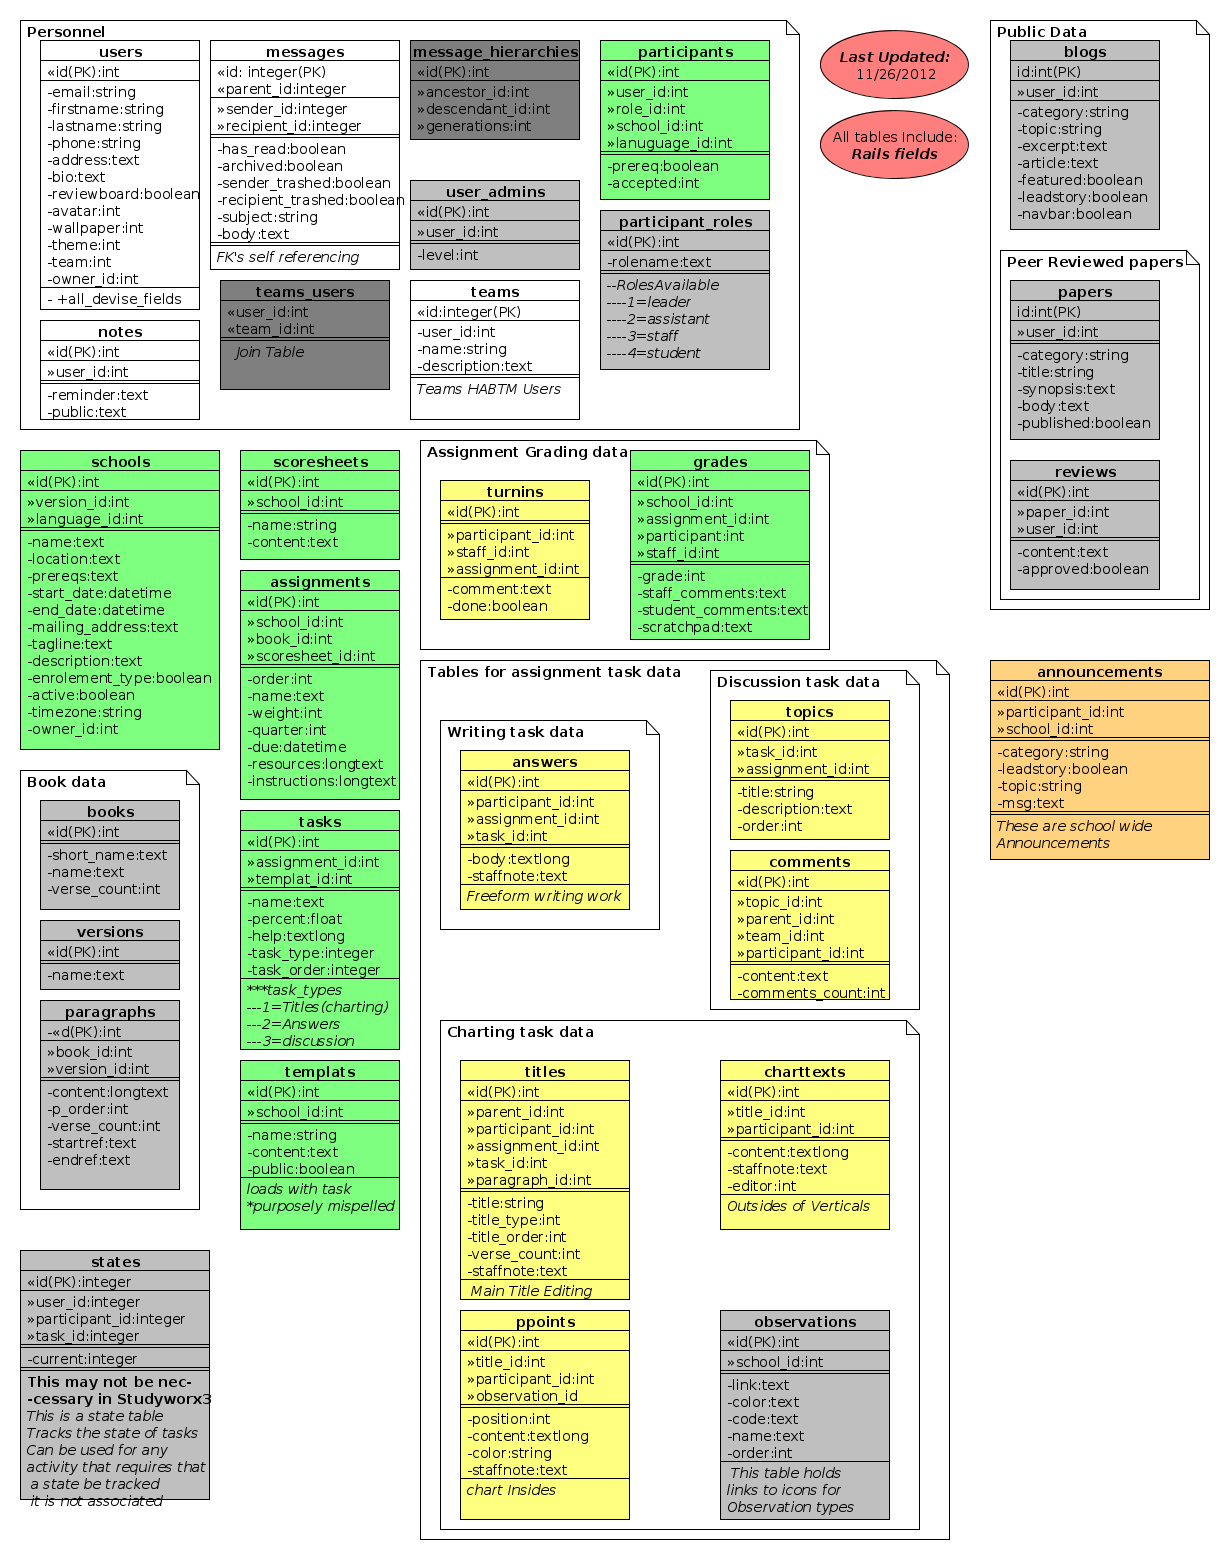
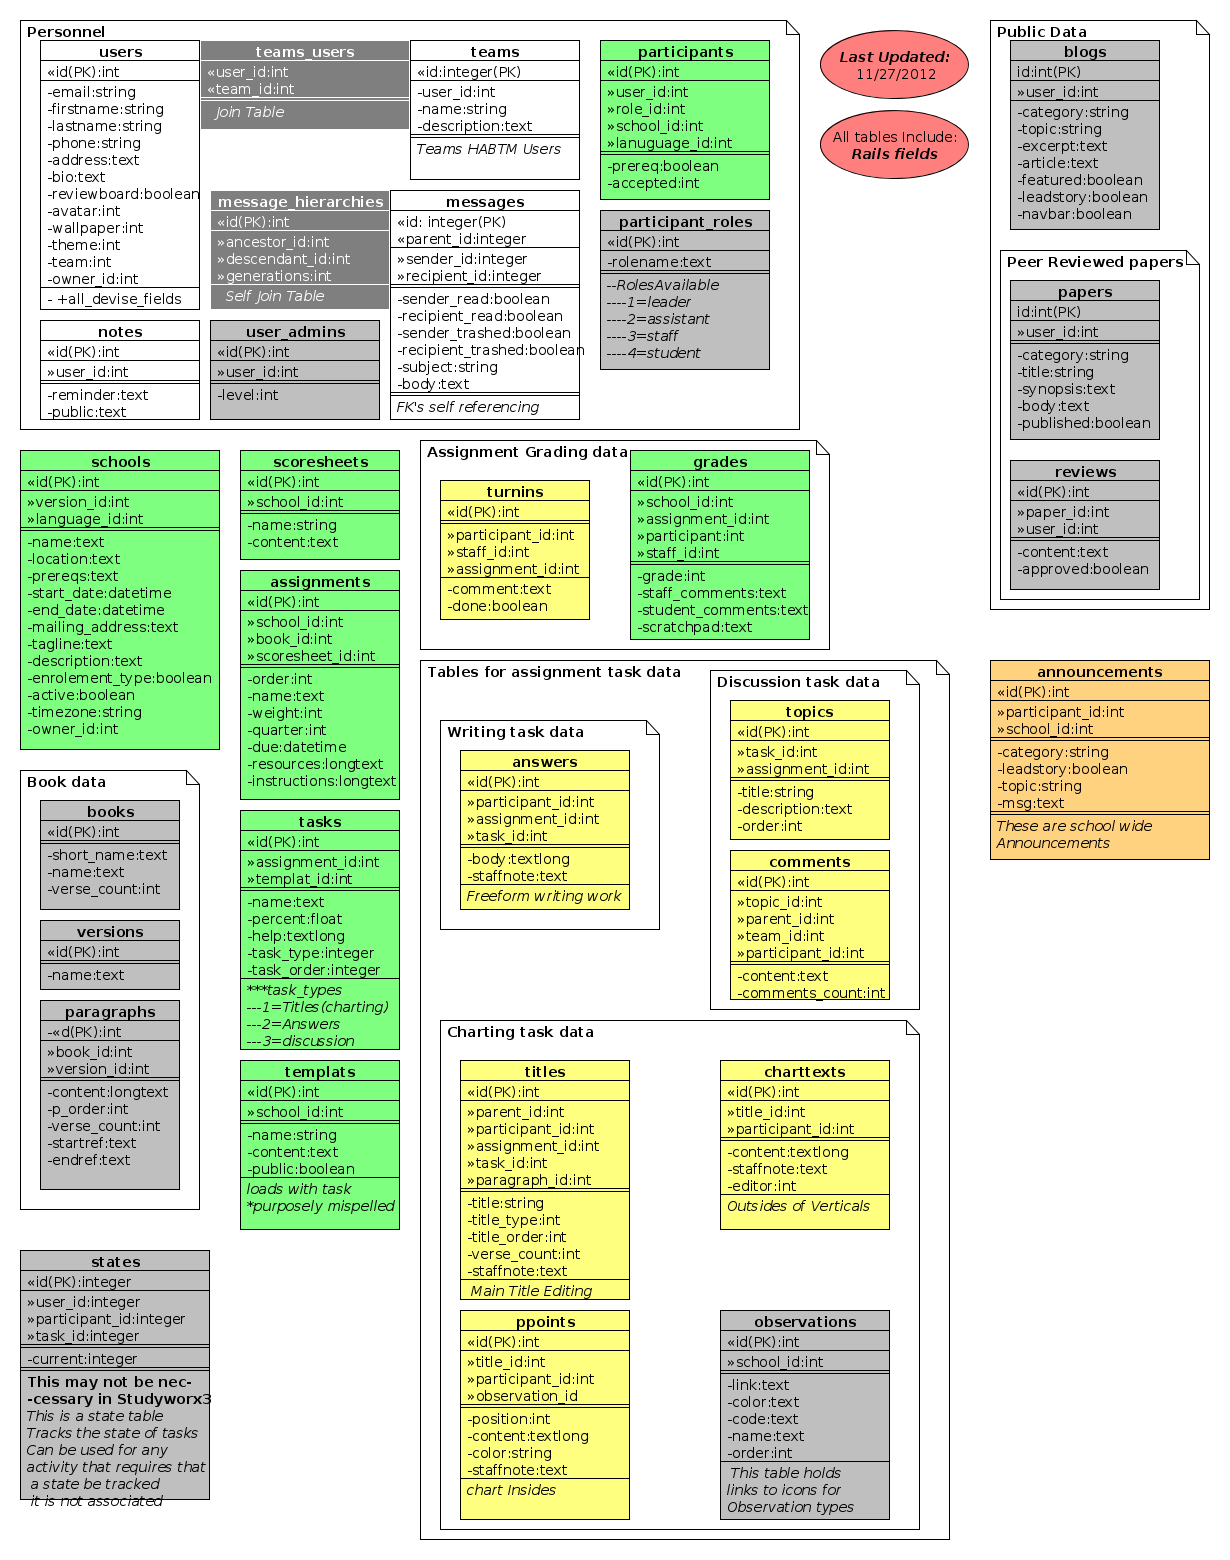
debugged nav_bar and started messaging.

Changed region(s): [[0.1545, 0.0, 0.4943, 0.2769]]

diff --git a/app/assets/stylesheets/base.css.scss b/app/assets/stylesheets/base.css.scss
@@ -52,9 +52,9 @@ h3 {
 	position: absolute;
 	top: 0px;
 	left: 12px;
-	border-left:1px solid #999999;
-  border-bottom:2px solid #bbbbbb;
-  border-right: 3px solid #ededed;
+	border-left:2px solid #999999;
+  border-bottom:3px solid #bbbbbb;
+  border-right: 4px solid #ededed;
 	border-bottom-left-radius: 5px;
 	border-bottom-right-radius: 5px;
 	cursor: pointer;
@@ -96,7 +96,7 @@ h3 {
   border-radius: 5px;
 }
 
-#nav-right {
+#nav_right {
   float:right;width:30%;
   border-left:2px solid #cdcdcd;border-right:2px solid #dedede;border-radius:10px;
   padding:10px;
@@ -113,6 +113,10 @@ h3 {
   float:left;
   width:65%
 }
+#nav_body_content {
+  float:left;
+  width:100%;
+}
 #scratchpad_heading {
   float:left;
   width:65%;
@@ -126,9 +130,9 @@ h3 {
   padding-right: 4px;
   padding-bottom: 4px;
   color: #999999;
-  border-left:3px solid #ededed;
-  border-bottom:2px solid #bbbbbb;
-  border-right: 1px solid #999999;
+  border-left:4px solid #ededed;
+  border-bottom:3px solid #bbbbbb;
+  border-right: 2px solid #999999;
   background-color: white;
   border-bottom-right-radius: 5px;
   border-bottom-left-radius: 5px;
@@ -225,9 +229,10 @@ h3 {
   float:left;
   font-style: italic;
   font-family: Garamond, Georgia;
-  background-color: rgba(200,170,107,.3);
-  border: 1px solid gray;
-  border-top-right-radius: 20px;
+  border-right: 1px solid gray;
+  border-bottom: 1px solid gray;
+  border-left: 1px solid gray;
+  border-bottom-right-radius: 20px;
   border-bottom-left-radius: 20px;
   margin-bottom: 10px;
   padding:3%;
@@ -235,19 +240,32 @@ h3 {
 
 .msg_container {
   float:left;
-  width: 97%;
-  padding: 2%;
-  border: 1px solid gray;
-  border-top-right-radius: 20px;
+  width: 100%;
+  border-left: 1px solid gray;
+  border-bottom: 1px solid gray;
   border-bottom-left-radius: 20px;
-  margin-bottom: 6px;
+  padding-bottom: 14px;
+  margin-bottom: 10px;
 }
 
 .reply_link {
-  border-top: 1px solid gray;
+  float:left;
+  width:93%;
+  margin-left: 5%;
+  padding-left: 2%;
+  border-bottom: 1px solid gray;
   border-left: 1px solid gray;
-  border-top-left-radius: 10px;
-  margin-left: 60px;
+  border-bottom-left-radius: 10px;
+}
+.reply_container {
+  float:left;
+  width: 81%;
+  margin-left: 15%;
+  padding: 2%;
+  border-left: 1px solid gray;
+  border-bottom: 1px solid gray;
+  border-bottom-left-radius: 20px;
+  margin-bottom: -10px;
 }
 .textarea_reduced {
   width: 97%;

diff --git a/db/schema.rb b/db/schema.rb
@@ -11,7 +11,7 @@
 #
 # It's strongly recommended to check this file into your version control system.
 
-ActiveRecord::Schema.define(:version => 20121125191447) do
+ActiveRecord::Schema.define(:version => 20121128024530) do
 
   create_table "blogs", :force => true do |t|
     t.integer  "user_id"
@@ -52,8 +52,8 @@ ActiveRecord::Schema.define(:version => 20121125191447) do
     t.integer  "sender_id"
     t.integer  "recipient_id"
     t.integer  "school_id"
-    t.boolean  "has_read"
-    t.boolean  "archived"
+    t.boolean  "sender_read"
+    t.boolean  "recipient_read"
     t.boolean  "sender_trashed"
     t.boolean  "recipient_trashed"
     t.string   "subject"
@@ -61,6 +61,9 @@ ActiveRecord::Schema.define(:version => 20121125191447) do
     t.datetime "created_at",        :null => false
     t.datetime "updated_at",        :null => false
   end
+
+  add_index "messages", ["recipient_id", "recipient_read"], :name => "index_messages_on_recipient_id_and_recipient_read"
+  add_index "messages", ["sender_id", "sender_read"], :name => "index_messages_on_sender_id_and_sender_read"
 
   create_table "notes", :force => true do |t|
     t.integer  "user_id"

diff --git a/app/helpers/application_helper.rb b/app/helpers/application_helper.rb
@@ -2,16 +2,22 @@ module ApplicationHelper
   
   # Return the full name of the current_user
   def full_name 
-    return current_user.firstname + " " + current_user.lastname
+    if current_user
+      current_user.firstname + " " + current_user.lastname
+    else
+      "Please Log in"
+    end
   end
   
   def get_full_name(user_id)
     u = User.find(user_id)
     return u.firstname + " " + u.lastname
   end
-  
-  def nav_heading(content)
-    render :partial=>"layouts/navhead", :locals=>{:content => content}
+  # Sets the nav_bar(nav_body_content = optional url of partial for nav_body_content element)
+  def nav_bar(nav_body_content = false)
+    default = "layouts/nav_blank"
+    nbc = nav_body_content || default
+    render :partial=>"layouts/nav_bar", :locals=>{content: full_name,nav_body_content: nbc}
   end
   
   # this fetches and creates the image url's for a list of avatar's

diff --git a/app/controllers/profiles_controller.rb b/app/controllers/profiles_controller.rb
@@ -16,7 +16,7 @@ class ProfilesController < ApplicationController
     @participants = Participant.includes(:school).where(user_id: current_user.id).all
     @images = Mercury::Image.find_all_by_user_id(current_user.id)
     @stockimages = Mercury::Image.find_all_by_user_id(0)
-    @messages = Message.where(recipient_id: current_user.id).order("created_at DESC")
+    @nav_body_content = "schools/schools"
   end
   
   # This edits the users personal data
@@ -80,12 +80,6 @@ class ProfilesController < ApplicationController
     user.save
     flash[:alert] = "The review board status has been updated"
     redirect_to user_admins_path
-  end
-  
-  # This sets the currently active school
-  def setschool
-    set_school(params[:school_id])
-    redirect_to profile_path(current_user.id)
   end
   
   # This sets the avatar file for the user

diff --git a/db/migrate/20121128024530_alter_messages_table.rb b/db/migrate/20121128024530_alter_messages_table.rb
@@ -1,0 +1,15 @@
+class AlterMessagesTable < ActiveRecord::Migration
+  def up
+    rename_column(:messages, :has_read, :sender_read)
+    rename_column(:messages, :archived, :recipient_read)
+    add_index(:messages, [:sender_id,:sender_read])
+    add_index(:messages, [:recipient_id,:recipient_read])
+  end
+
+  def down
+    rename_column(:messages, :sender_read, :has_read)
+    rename_column(:messages, :recipient_read, :archived)
+    remove_index(:messages, [:sender_id,:sender_read])
+    remove_index(:messages, [:recipient_id,:recipient_read])
+  end
+end

diff --git a/app/controllers/messages_controller.rb b/app/controllers/messages_controller.rb
@@ -2,13 +2,12 @@ class MessagesController < ApplicationController
   
   
   # Not used yet
-  # Will use this for loading user messages via AJAX
+  # Will use this for loading user recieved conversations via AJAX
   def index
-    @messages = Message.all
+    @messages = Message.where("(recipient_id = ? or sender_id = ?) and parent_id IS NULL",current_user.id,current_user.id).all
 
     respond_to do |format|
-      format.html # index.html.erb
-      format.json { render json: @messages }
+      format.js
     end
   end
 

diff --git a/config/routes.rb b/config/routes.rb
@@ -24,7 +24,7 @@ Studyworx3::Application.routes.draw do
   resources :blogs
   resources :user_admins
   resources :profiles do
-    get 'reviewboard', 'load_reminder','teams','new_team','add_members','setschool'
+    get 'reviewboard', 'load_reminder','teams','new_team','add_members'
     post 'update_reviewboard', 'setavatar', 'setwallpaper', 'settheme', 'setstock', 'save_reminder'
     post 'save_team','save_members'
     put 'saveprofile'

diff --git a/app/models/message.rb b/app/models/message.rb
@@ -2,6 +2,9 @@ class Message < ActiveRecord::Base
   acts_as_tree :order => 'created_at', :dependant => :destroy
   
   #############################
+  default_scope order: 'created_at DESC'
+  #scope :has_read, conditions: {has_read: false}
+  
   # Methods to suck up user info for sender and recipient
   def sender
     user = User.find(self.sender_id)

diff --git a/app/controllers/schools_controller.rb b/app/controllers/schools_controller.rb
@@ -16,6 +16,8 @@ class SchoolsController < ApplicationController
   # GET /schools/1.json
   def show
     @school = School.find(params[:id])
+    @participants = Participant.includes(:school).where(user_id: current_user.id).all
+    set_school(params[:id])
 
     respond_to do |format|
       format.html # show.html.erb
